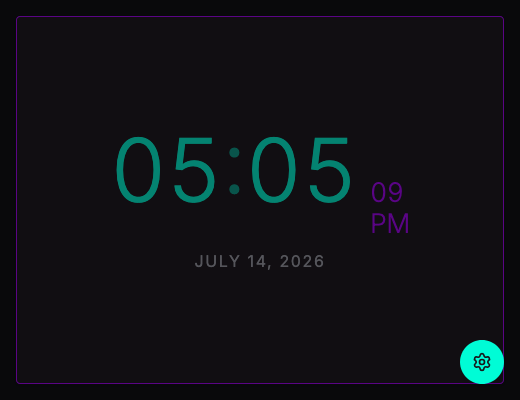
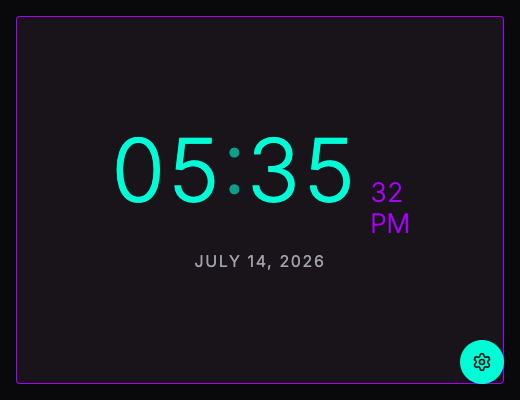
fix(ui): remove Card opacity-50 + size-fit; render weather ° natively
Two visual bugs surfaced by the /catalog view (screenshot was all-washed-out
and weather showed literal '72.9&deg;F' text):

- src/components/ui/card.tsx: dropped the hardcoded `opacity-50 size-fit`
  from the base Card class. `opacity-50` was making every widget ghost-half-
  transparent, and `size-fit` was shrinking the card to its intrinsic width
  which fought with the fluid grid. Replaced with `w-full h-full
  overflow-hidden` and `flex flex-col` so the card fills its container.
- src/components/weather-clock/WeatherClockNode.tsx: `${temp}&deg;F` was a
  template string with the HTML entity, which React text-node-escapes to
  literal '&deg;'. Swapped for the ° character (U+00B0).

Fast suite (25/25) green. Docs regenerated to reflect the fix.

diff --git a/src/components/weather-clock/WeatherClockNode.tsx b/src/components/weather-clock/WeatherClockNode.tsx
@@ -82,7 +82,7 @@ export const WeatherMetric: Partial<Record<keyof HourlyWeather, JSX.Element | We
 
 //  both getters and formatters in one, no need to separate this yet
 export const WeatherMetricFormatters: Partial<Record<keyof HourlyWeather, (weatherData: HourlyWeather, currentMetric: keyof HourlyWeather) => string>> = {
-    temp: (weatherData, currentMetric) => `${weatherData[currentMetric]}&deg;F`,
+    temp: (weatherData, currentMetric) => `${weatherData[currentMetric]}°F`,
     uvi: (weatherData, currentMetric) => `${weatherData[currentMetric]}`,
     wind_speed: (weatherData, currentMetric) => `${weatherData[currentMetric]} mph`,
     wind_gust: (weatherData, currentMetric) => `${weatherData[currentMetric]} mph`,

diff --git a/src/components/ui/card.tsx b/src/components/ui/card.tsx
@@ -11,7 +11,7 @@ const Card = React.forwardRef<
   <div
     ref={ref}
     className={cn(
-      "rounded border bg-card text-card-foreground border-secondary shadow-sm opacity-50 size-fit flex flex-grow",
+      "rounded border bg-card text-card-foreground border-secondary shadow-sm flex flex-col w-full h-full overflow-hidden",
       className
     )}
     {...props}
